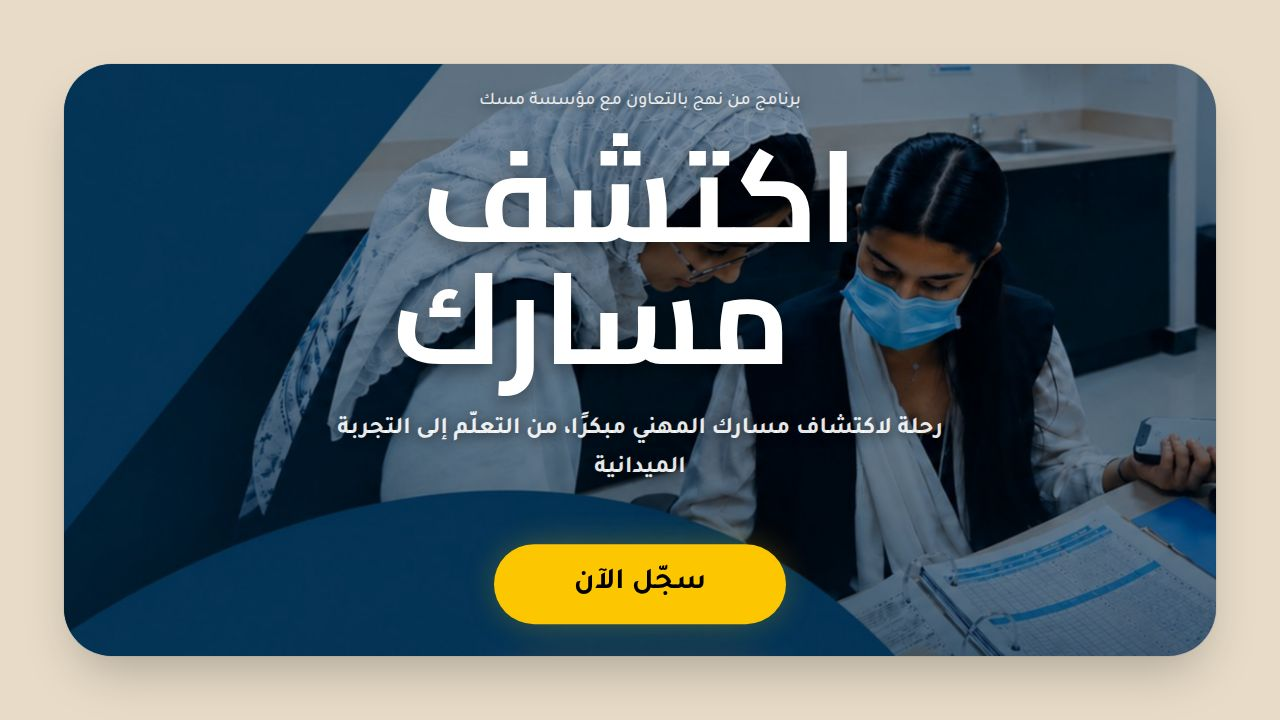
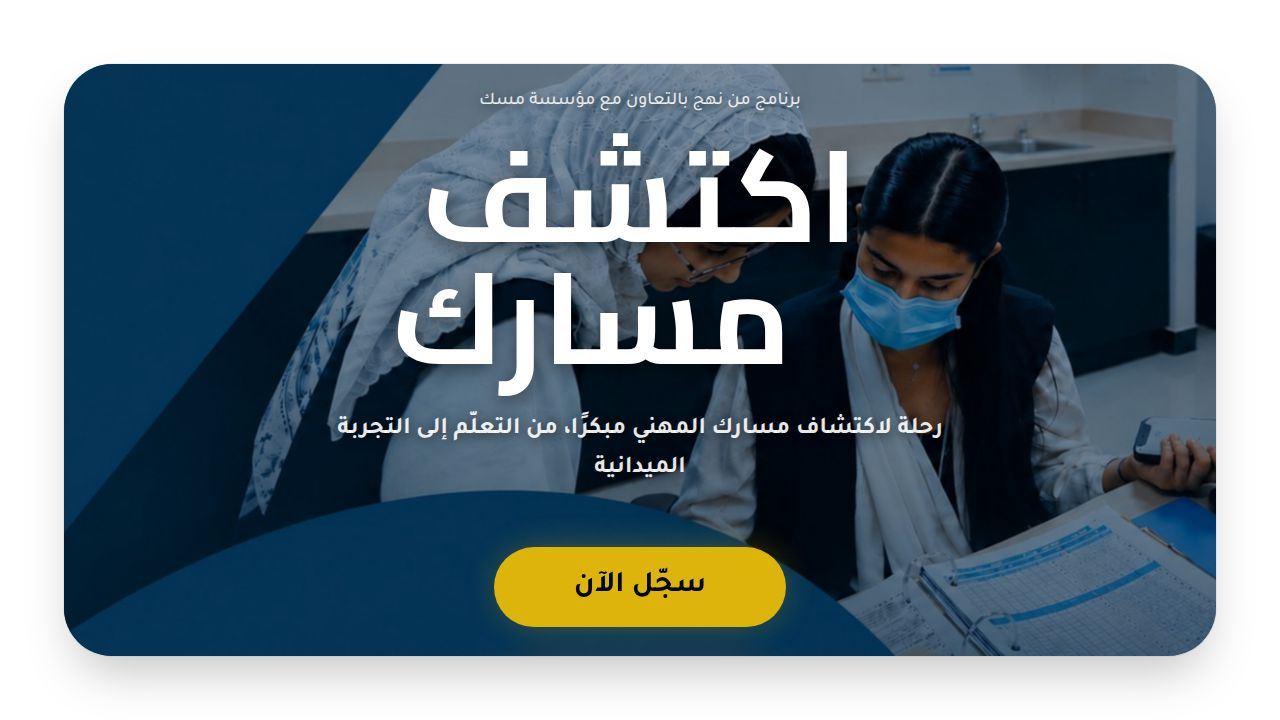
Update hero section and registration links to direct users to MISK
Replaced the hero section background color to white and updated the primary call-to-action button to link directly to the MISK portal, removing the intermediate survey link. Also removed an unused import.

Replit-Commit-Author: Agent
Replit-Commit-Session-Id: 5a9c6e15-abdf-4b65-a8a1-5150474edf39
Replit-Commit-Checkpoint-Type: full_checkpoint
Replit-Commit-Event-Id: ea47af7f-1871-45aa-925a-8fc862d27869
Replit-Commit-Screenshot-Url: https://storage.googleapis.com/screenshot-production-us-central1/9680d4ff-f28e-4894-9c17-b9eb83c63b8e/5a9c6e15-abdf-4b65-a8a1-5150474edf39/CliNqjf
Replit-Helium-Checkpoint-Created: true

Changed region(s): [[0.0, 0.0, 1.0, 1.0]]

diff --git a/artifacts/landing/src/pages/home.tsx b/artifacts/landing/src/pages/home.tsx
@@ -3,7 +3,6 @@ import photoOnly from "@/assets/photo-only.png";
 import partnerMisk from "@assets/misk_1780259646848.png";
 import partnerNahj from "@assets/nahj-نهج_1780259659377.png";
 import { motion } from "framer-motion";
-import { Link } from "wouter";
 import { SurveyForm } from "@/components/survey-form";
 import { PartnersCarousel } from "@/components/partners-carousel";
 import { ProgramRoadmap } from "@/components/program-roadmap";
@@ -32,8 +31,8 @@ export default function Home() {
     <div className="min-h-[100dvh] w-full flex flex-col items-center bg-[#0a1e3a] text-white overflow-hidden font-sans" style={{ fontFamily: "Tajawal, sans-serif" }}>
       
       {/* 1. HERO SECTION */}
-      <div className="relative h-[100dvh] w-full flex flex-col items-center bg-[#0a1e3a] md:bg-[#E8DCC8] overflow-hidden shrink-0">
-        {/* ===== DESKTOP / TABLET (md+) — rounded peninsula surrounded by beige ===== */}
+      <div className="relative h-[100dvh] w-full flex flex-col items-center bg-white overflow-hidden shrink-0">
+        {/* ===== DESKTOP / TABLET (md+) — rounded peninsula surrounded by white ===== */}
         <div className="hidden md:block absolute inset-12 lg:inset-16 rounded-[3rem] overflow-hidden shadow-2xl ring-1 ring-black/5">
           {/* Blurred backdrop to extend cover edges */}
           <img
@@ -110,12 +109,14 @@ export default function Home() {
             transition={{ duration: 0.8, delay: 0.2, ease: "easeOut" }}
             className="flex justify-center w-full"
           >
-            <Link
-              href="/survey"
+            <a
+              href={MISK_PORTAL_URL}
+              target="_blank"
+              rel="noopener noreferrer"
               className="inline-flex h-14 md:h-20 items-center justify-center rounded-full bg-yellow-400 px-12 md:px-20 text-xl md:text-3xl font-bold text-black shadow-[0_0_40px_-10px_rgba(250,204,21,0.5)] transition-all hover:bg-yellow-300 hover:scale-105 hover:shadow-[0_0_50px_-5px_rgba(250,204,21,0.6)] focus:outline-none focus:ring-4 focus:ring-yellow-400/50 cursor-pointer"
             >
               سجّل الآن
-            </Link>
+            </a>
           </motion.div>
         </div>
       </div>
